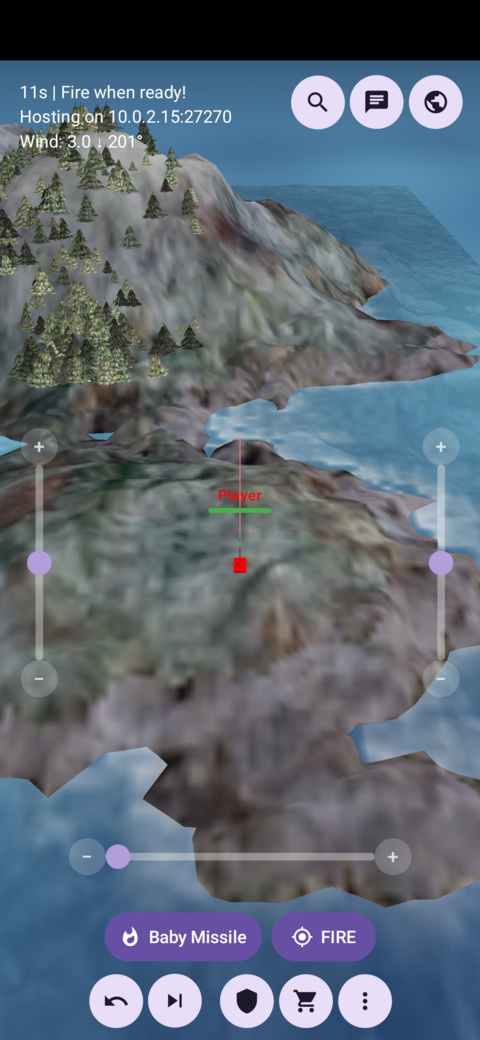
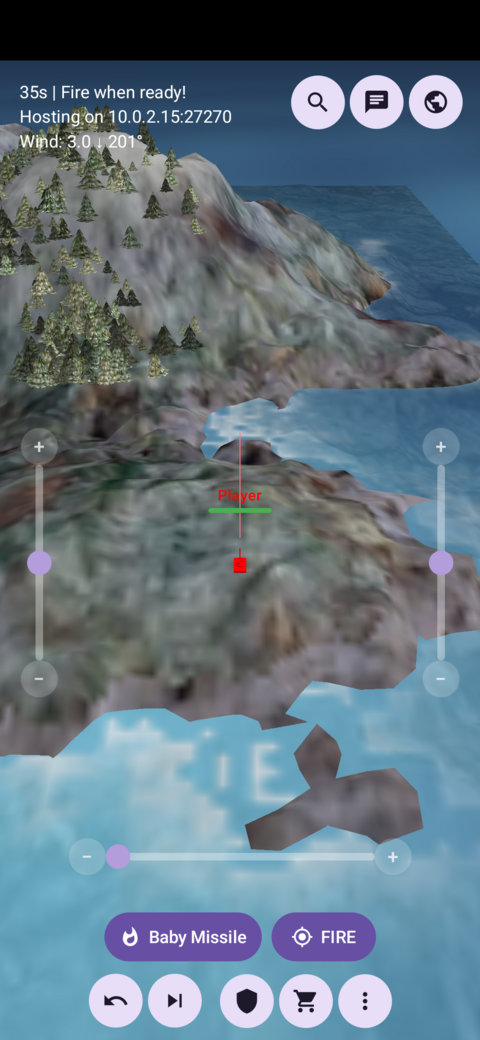
Version 0.3.0, with fresh screenshots
The README's four shots are retaken on this build and now lead with what
0.3.0 adds: the main menu and the pre-game setup screen, then gameplay
(where the sea's new sky reflection shows) and the score table with chat.
The shop and camera-view shots make way; both features are still described
in the text.

Also corrects two claims that had drifted: the host-test count (over 200
now, not ~135) and the water description.

Claude-Session: https://claude.ai/code/session_012ij49xwQphcUDVdxjHMC1n

diff --git a/README.md b/README.md
@@ -10,14 +10,14 @@ It is in a playable state now with most of the graphics and gameplay implemented
 
 Cheers, enjoy! rm
 
-<img src="docs/shot-gameplay.png" alt="ScorchDroid mid-round: a pine-covered island seen from above and behind the player's red tank, coastline and open water beyond, with the angle and elevation sliders either side and the weapon and Fire buttons below" width="200" /> <img src="docs/shot-shop.png" alt="The shop, showing the Weapons tab with Baby Digger, Baby Missile, Baby Nuke and the rest priced against the player's $10000" width="200" /> <img src="docs/shot-scores.png" alt="The score table for round 1 of 5, turn 9 of 15, listing the player and a bot with their score, kills, wins and money, with the chat history below showing the bot's taunts and the player's reply" width="200" /> <img src="docs/shot-camera.png" alt="The Action camera view, looking down on the whole island from above" width="200" />
+<img src="docs/shot-menu.png" alt="The ScorchDroid main menu: the title over Single Player, Multiplayer, Settings and About" width="200" /> <img src="docs/shot-setup.png" alt="The New Game setup screen, with sliders for the number of rounds and turns and chips for the turn type and wall type, each labelled with Scorched3D's own description" width="200" /> <img src="docs/shot-gameplay.png" alt="ScorchDroid mid-round: a pine-covered island seen from above and behind the player's red tank, the sea reflecting the sky beyond the shoreline, with the angle and elevation sliders either side and the weapon and Fire buttons below" width="200" /> <img src="docs/shot-scores.png" alt="The score table for round 1 of 5, turn 8 of 15, listing the player and a bot with their score, kills, wins and money, with the chat history below showing the bot's taunts and the player's reply" width="200" />
 
 ## Features
 
 - The real Scorched3D simulation, not an approximation: upstream's weapons, accessories, terrain
   destruction, wind, shields, parachutes, tank movement, and bot AI.
 - A 3D landscape rendered from the real heightmap, with the generated ground texture, water with
-  shoreline foam and moving waves, a sky with the landscape's own colour gradient, clouds, sun and
+  shoreline foam, moving waves and a Fresnel-weighted sky reflection, a sky with the landscape's own colour gradient, clouds, sun and
   stars, distance fog, baked sun shadows, trees and scenery, and cavern roofs.
 - Weapon effects driven by the simulation's own events — explosions, napalm, lasers, lightning,
   shield hits, sky flashes, teleports, smoke, mushroom clouds, thrown debris, arena wall flashes,
@@ -31,6 +31,10 @@ Cheers, enjoy! rm
 - A main menu — single player, multiplayer, and an About screen carrying the GPL notice and the
   exact upstream commit the build came from. Games can be left and started again without
   restarting the app.
+- A setup screen before each game: rounds, turns, turn type, wall type, starting money, shot and
+  buying time, and wind — Scorched3D's own options, with its own limits, read from the engine
+  rather than redeclared.
+- Mod support, including the bundled Apocalypse mod with its own weapons, landscapes and models.
 
 ## Requirements
 
@@ -61,7 +65,7 @@ Game logic is verified on the host, not the emulator:
 cd host-tests/build && cmake .. && make && ./host_tests
 ```
 
-That target builds the same `src/common` + `src/server` sources natively and runs ~135 checks
+That target builds the same `src/common` + `src/server` sources natively and runs over 200 checks
 against the real engine — including a full two-process client/host join over real TCP sockets. It
 runs in seconds, which is why it, rather than an emulator, is where behaviour is pinned down.
 
